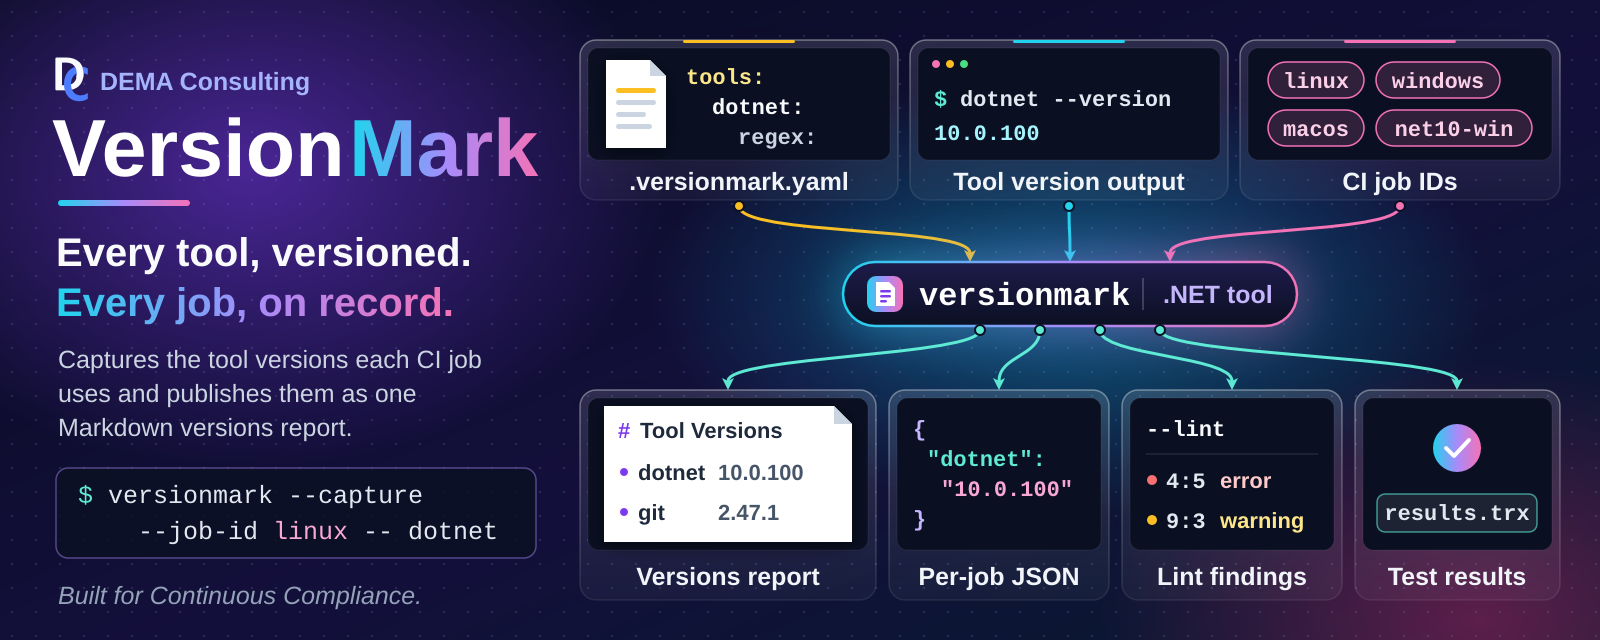
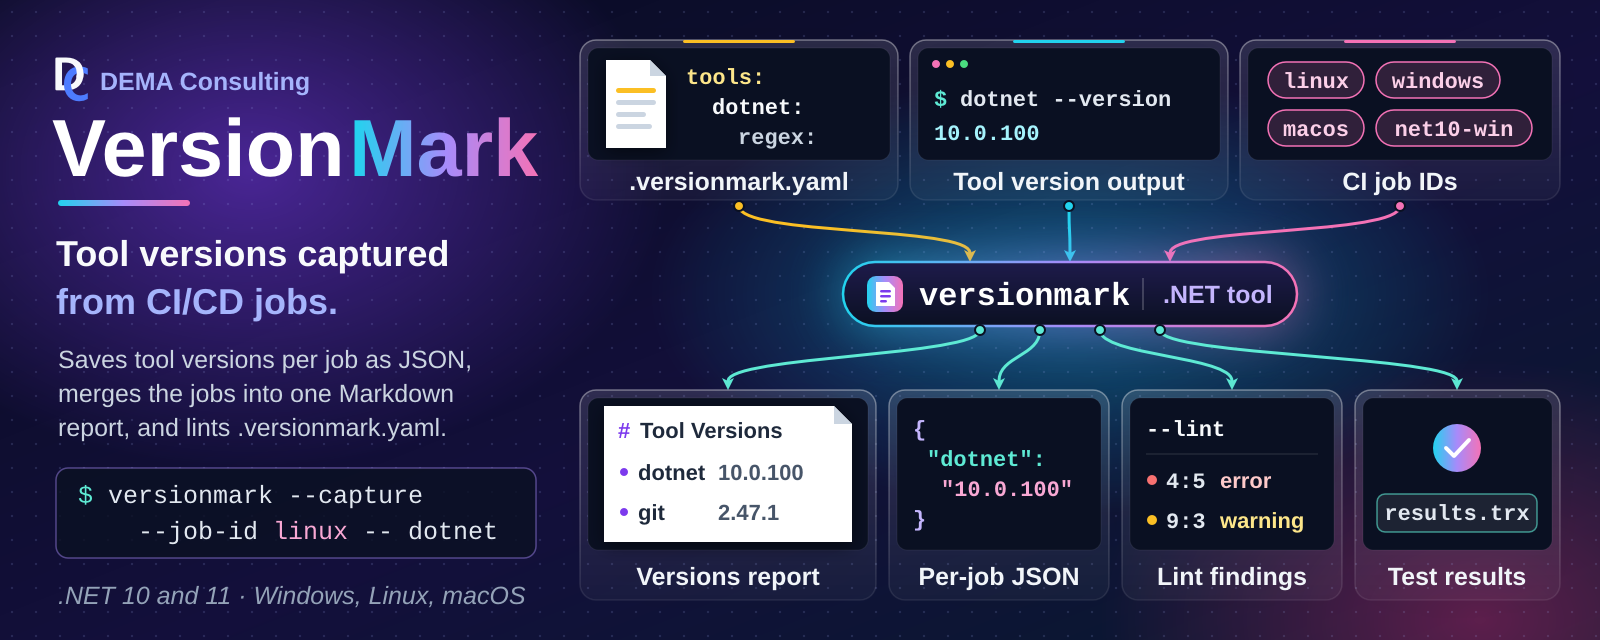
Calm the README hero and make it the H1
Plain tagline 'Tool versions captured / from CI/CD jobs.' (solid white and
#a5b4fc, 36px, no gradient), factual body and footnote, and the hero as the
README H1 with the badges below it (Agents template #66, #67).

Changed region(s): [[0.0312, 0.5312, 0.3125, 0.6875], [0.0312, 0.375, 0.3125, 0.5], [0.0312, 0.9062, 0.3438, 0.9688]]

diff --git a/README.md b/README.md
@@ -1,4 +1,4 @@
-# VersionMark
+# ![VersionMark: Tool versions captured from CI/CD jobs][hero]
 
 [![GitHub forks][badge-forks]][link-forks]
 [![GitHub stars][badge-stars]][link-stars]
@@ -8,12 +8,6 @@
 [![Quality Gate][badge-quality]][link-quality]
 [![Security][badge-security]][link-security]
 [![NuGet][badge-nuget]][link-nuget]
-
-![VersionMark banner: the VersionMark name with the tagline 'Every tool, versioned. Every job, on record.' and the
-command 'versionmark --capture --job-id linux -- dotnet'. The .versionmark.yaml tool definitions, the version output of
-each tool command, and the CI job IDs flow on curved arrows into the versionmark .NET tool, and arrows lead out to a
-Markdown versions report with a Tool Versions heading, per-job JSON capture files, lint findings with line and column
-for the configuration, and self-validation test results in a TRX file][hero]
 
 ## Overview
 
